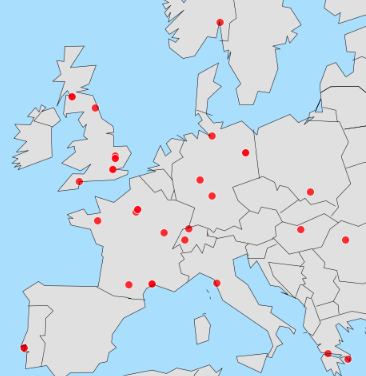
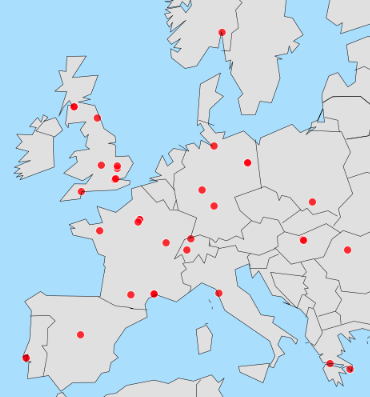
28th feb map update

diff --git a/_news/announcement_4.md b/_news/announcement_4.md
@@ -1,11 +1,11 @@
 ---
 layout: post
-date: 2025-02-27 13:59:00-0400
+date: 2025-02-28 13:59:00-0400
 inline: true
 related_posts: false
 ---
 
-Up to date map of the registered attendees on Feb. 27<sup>th</sup>
+Up to date map of the registered attendees on Feb. 28<sup>th</sup>
 
 
 ![alt text](../assets/img/JEDImeeting2025/participants_map.png)
